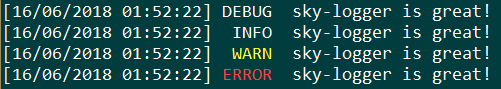
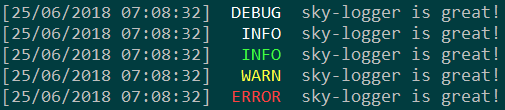
v2.0.0 - added chaining and toggle-able debugs

diff --git a/index.js b/index.js
@@ -4,20 +4,60 @@ const timestamp = () => {
   return colors.white(`[${moment().format('DD/MM/YYYY hh:mm:ss')}] `);
 };
 
-module.exports = {
-  error: (message) => {
-    console.log(timestamp() + `${'ERROR '.bold.red} ${message.white}`);
-  },
-  warn: (message) => {
-    console.log(timestamp() + `${' WARN '.bold.yellow} ${message.white}`);
-  },
-  info: (message) => {
-    console.log(timestamp() + `${' INFO '.bold.white} ${message.white}`);
-  },
-  success: (message) => {
-    console.log(timestamp() + `${' INFO '.bold.green} ${message.white}`);
-  },
-  debug: (message) => {
-    console.log(timestamp() + `${'DEBUG '.bold.white} ${message.white}`);
+class Logger {
+  constructor() {
+    this.prefix = '';
+    this.doDebug = false;
+  }
+
+  setPrefix(prefix) {
+    this.prefix = prefix;
+
+    return this;
+  }
+
+  enableDebug() {
+    this.doDebug = true;
+
+    return this;
+  }
+  disableDebug() {
+    this.doDebug = false;
+
+    return this;
+  }
+  toggleDebug() {
+    this.doDebug = !this.doDebug;
+
+    return this;
+  }
+
+  error(message) {
+    console.log(timestamp() + `${this.prefix} ${'ERROR '.bold.red} ${message.white}`);
+
+    return this;
+  }
+  warn(message) {
+    console.log(timestamp() + `${this.prefix} ${' WARN '.bold.yellow} ${message.white}`);
+
+    return this;
+  }
+  info(message) {
+    console.log(timestamp() + `${this.prefix} ${' INFO '.bold.white} ${message.white}`);
+
+    return this;
+  }
+  success(message) {
+    console.log(timestamp() + `${this.prefix} ${' INFO '.bold.green} ${message.white}`);
+
+    return this;
+  }
+  debug(message) {
+    if(this.doDebug) console.log(timestamp() + `${this.prefix} ${'DEBUG '.bold.white} ${message.white}`);
+
+    return this;
   }
 }
+
+module.exports = new Logger();
+module.exports.Logger = Logger;

diff --git a/test.js b/test.js
@@ -1,6 +1,8 @@
 const logger = require('./index.js');
 
-logger.debug('testing');
-logger.info('testing');
-logger.warn('testing');
-logger.error('testing');
+logger.enableDebug()
+  .debug('sky-logger is great!')
+  .info('sky-logger is great!')
+  .success('sky-logger is great!')
+  .warn('sky-logger is great!')
+  .error('sky-logger is great!');

diff --git a/README.md b/README.md
@@ -18,10 +18,12 @@ yarn add sky-logger
 ```js
 const logger = require('sky-logger');
 
-logger.debug('sky-logger is great!');
-logger.info('sky-logger is great!');
-logger.warn('sky-logger is great!');
-logger.error('sky-logger is great!');
+logger.enableDebug()
+  .debug('sky-logger is great!')
+  .info('sky-logger is great!')
+  .success('sky-logger is great!')
+  .warn('sky-logger is great!')
+  .error('sky-logger is great!');
 ```
 will output
 ![](example.png?raw=true)
